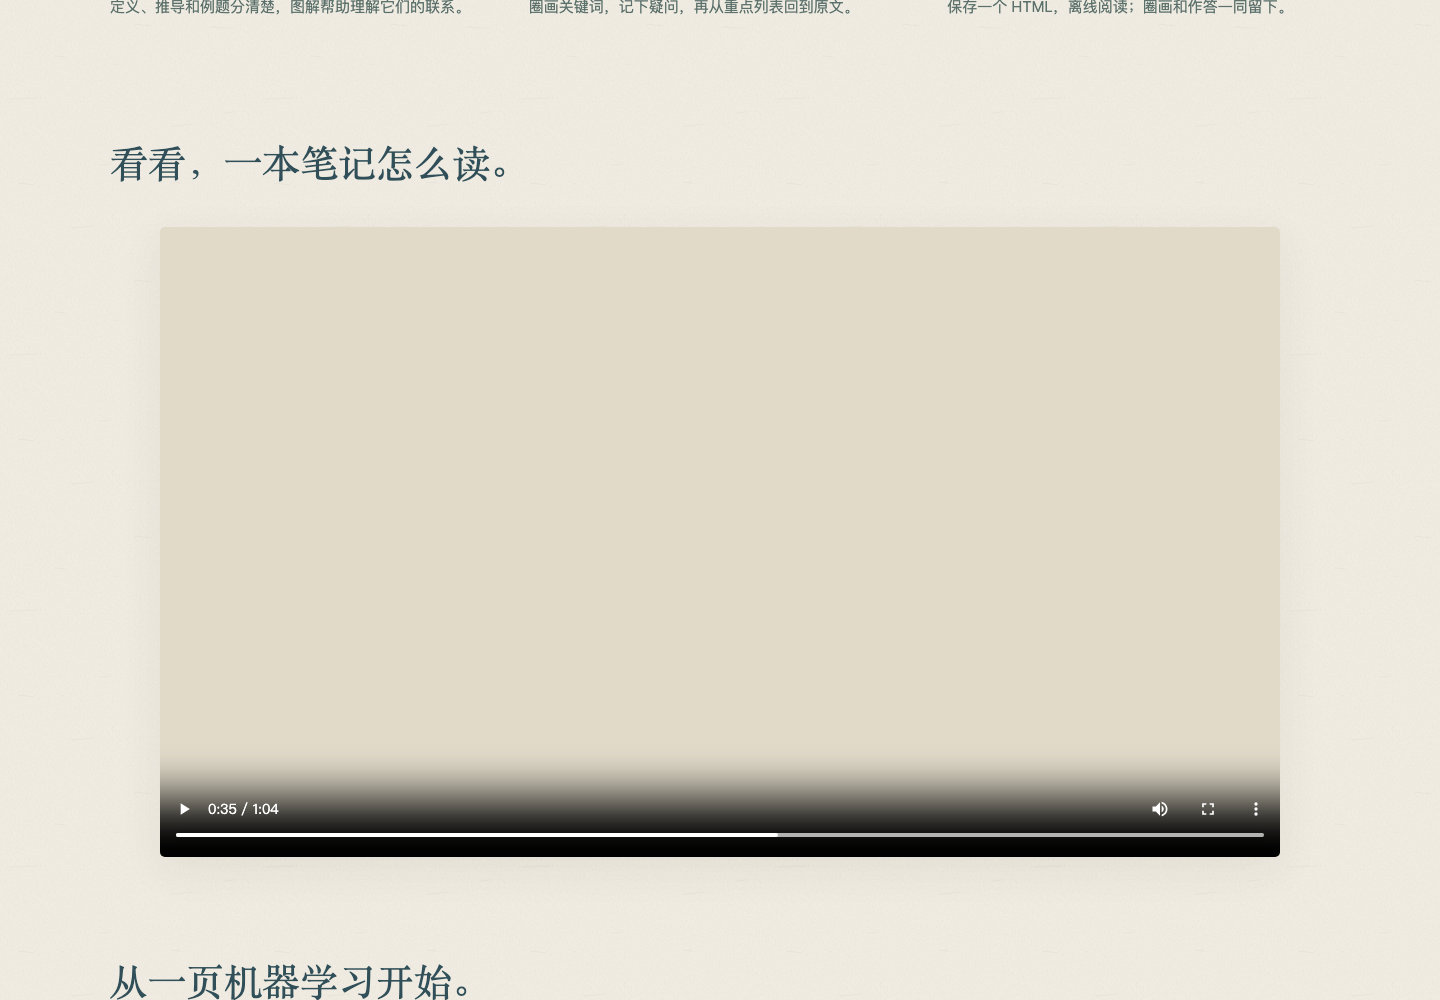
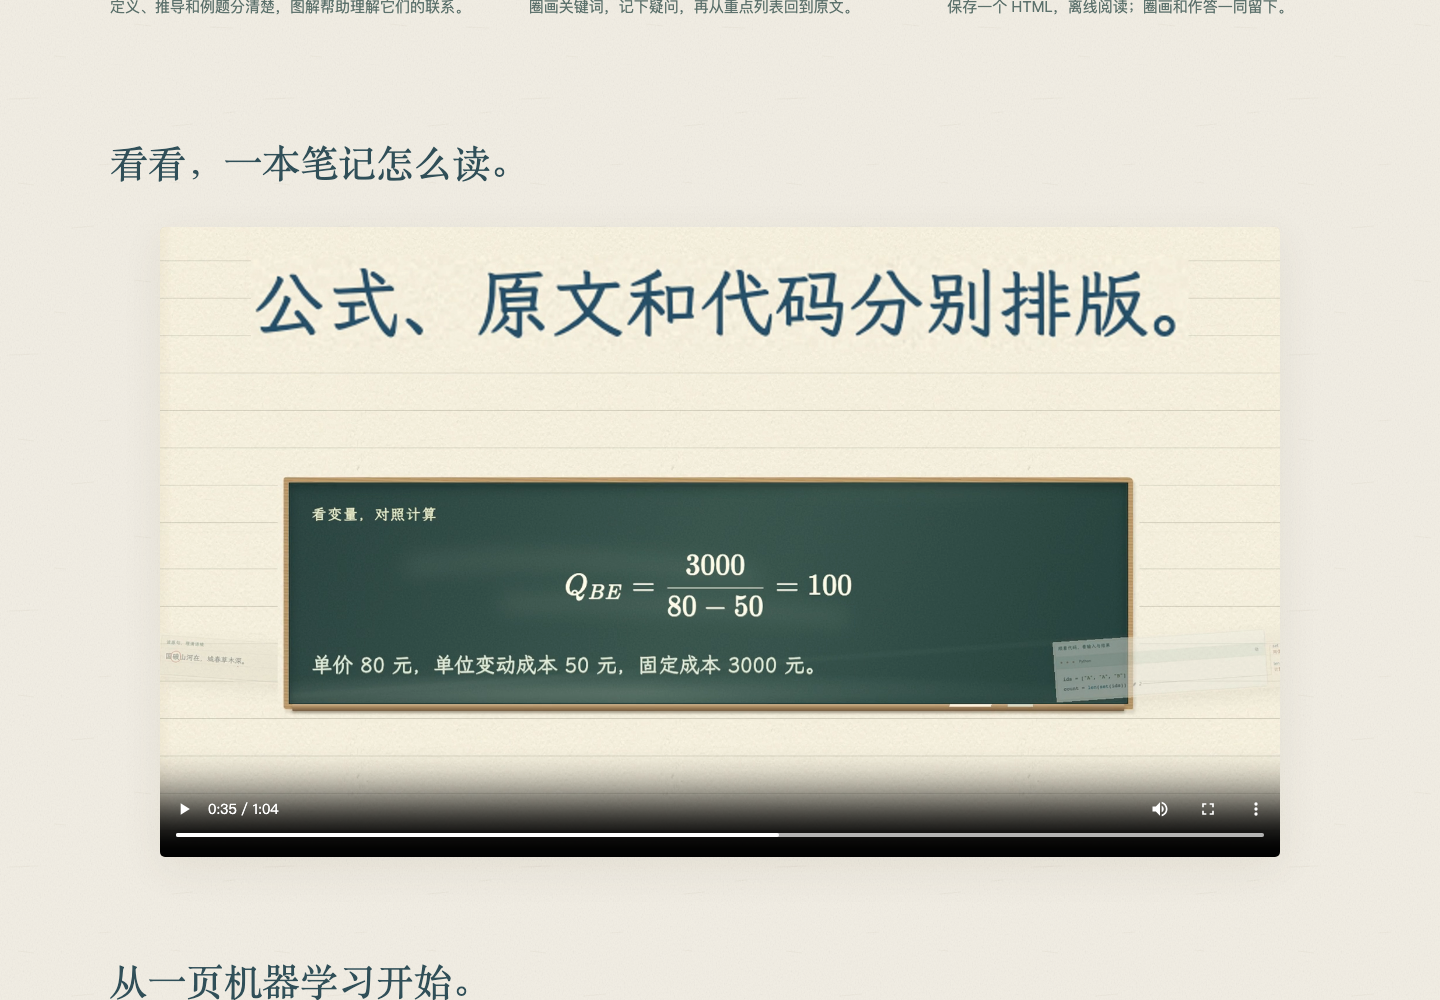
Resume responsive film playback while the rotated frame buffers

Changed region(s): [[0.1875, 0.465, 0.8125, 0.713], [0.1562, 0.248, 0.8125, 0.341]]

diff --git a/public/responsive-film.js b/public/responsive-film.js
@@ -12,8 +12,9 @@
   switching=true;active=next;video.pause();video.dataset.orientation=next;video.poster=`promo/story/film-${next}-poster-1.png`;video.src=sources[next];
   if(status)status.textContent='';
   // Initial load shows a poster without fetching the film.
-  if(!wantedTime&&!wantedPlay){video.preload='none';video.load();switching=false;return}
-  video.preload='auto';
+  if(!wantedTime&&!wantedPlay){video.preload='none';video.load();switching=false;video.removeAttribute('aria-busy');return}
+  video.preload='metadata';video.setAttribute('aria-busy','true');
+  if(status)status.textContent='影片加载中…';
   const loaded=new Promise((resolve,reject)=>{video.addEventListener('loadedmetadata',resolve,{once:true,signal});video.addEventListener('error',reject,{once:true,signal});signal.addEventListener('abort',reject,{once:true})});
   video.load();
   try{
@@ -21,20 +22,26 @@
    const target=Math.min(wantedTime,Math.max(0,video.duration-.05));
    // Some static servers do not support byte ranges. Wait for a seekable range
    // instead of silently seeking back to zero while only metadata is loaded.
+   let seeked=Promise.resolve();
    if(target>0){
     await new Promise((resolve,reject)=>{
      const clean=()=>events.forEach(name=>video.removeEventListener(name,check));
      const check=()=>{for(let i=0;i<video.seekable.length;i++)if(video.seekable.start(i)<=target&&video.seekable.end(i)>=target){clean();resolve();return}};
      const events=['progress','loadeddata','canplay','canplaythrough','durationchange'];
      events.forEach(name=>video.addEventListener(name,check));signal.addEventListener('abort',()=>{clean();reject()},{once:true});check();
+     // A non-Range server needs to download up to the target first.
+     if(!video.seekable.length||video.seekable.end(video.seekable.length-1)<target)video.preload='auto';
     });
     if(token!==request)return;
-    const seeked=new Promise((resolve,reject)=>{video.addEventListener('seeked',resolve,{once:true,signal});signal.addEventListener('abort',reject,{once:true})});
-    video.currentTime=target;await seeked;
+    seeked=new Promise((resolve,reject)=>{video.addEventListener('seeked',resolve,{once:true,signal});signal.addEventListener('abort',reject,{once:true})});
+    video.currentTime=target;
    }
-   if(wantedPlay)await video.play();
-  }catch{if(token===request&&status)status.textContent='影片暂时无法播放，请稍后重试。'}
-  finally{if(token===request){switching=false;controller.abort()}}
+   // Starting playback also drives buffering. Waiting for seeked first stalls
+   // source changes on slow connections while the previous frame is paused.
+   await Promise.all([seeked,wantedPlay?video.play():Promise.resolve()]);
+   if(token===request&&status)status.textContent='';
+  }catch(error){if(token===request&&status)status.textContent=error?.name==='NotAllowedError'?'点击影片继续播放。':'影片暂时无法播放，请稍后重试。'}
+  finally{if(token===request){switching=false;video.removeAttribute('aria-busy');controller.abort()}}
  }
  orientation.addEventListener('change',adapt);void adapt();
 })();
